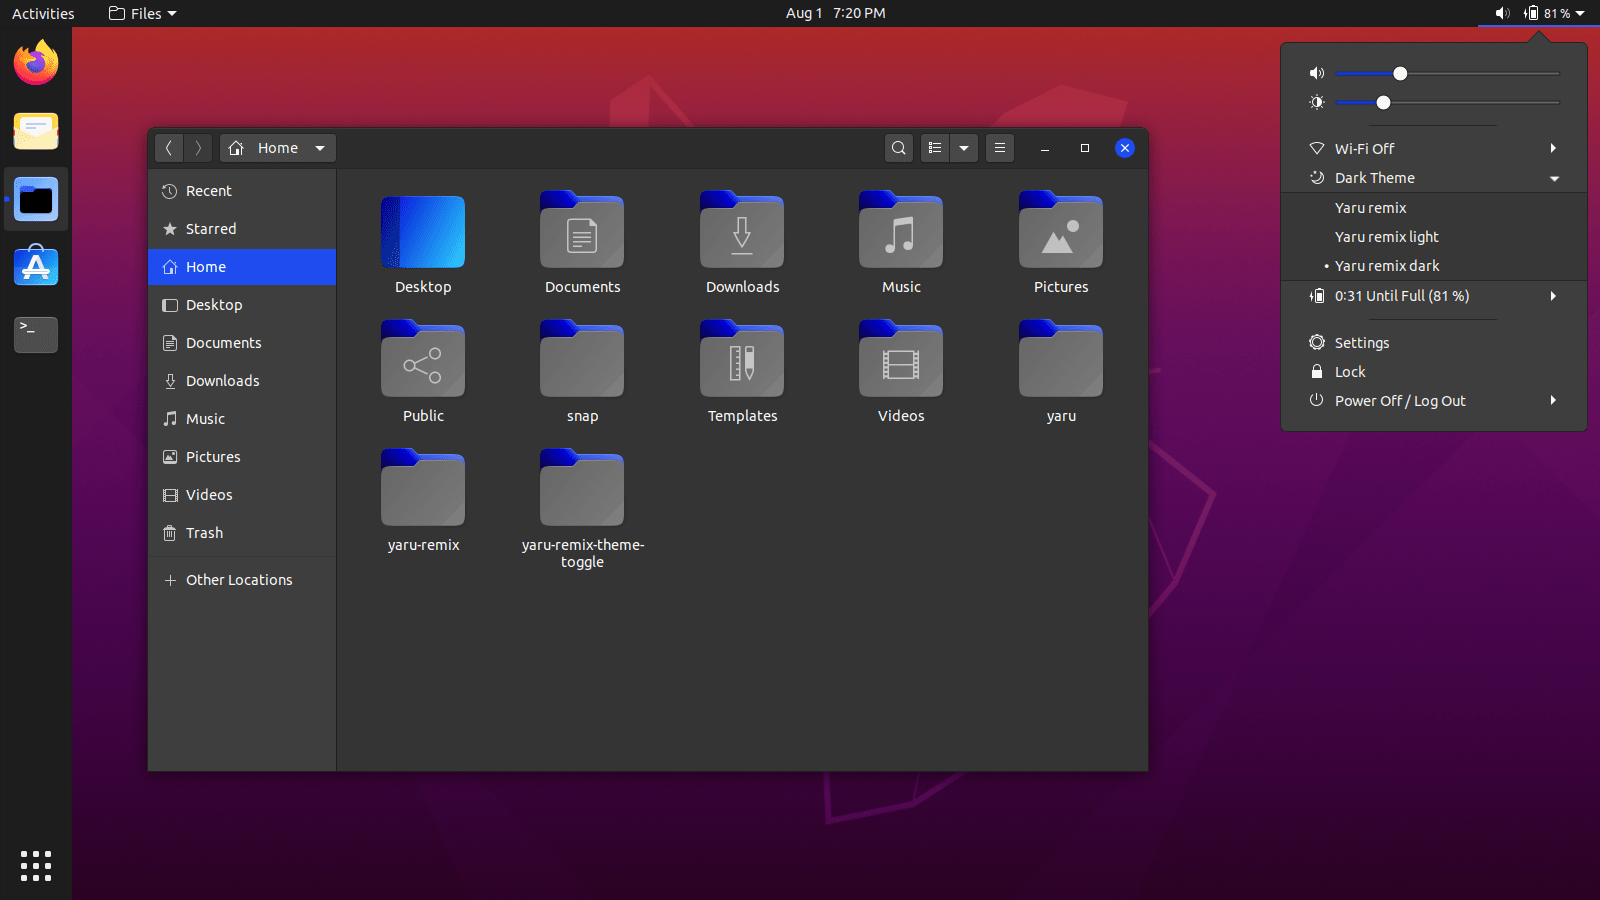
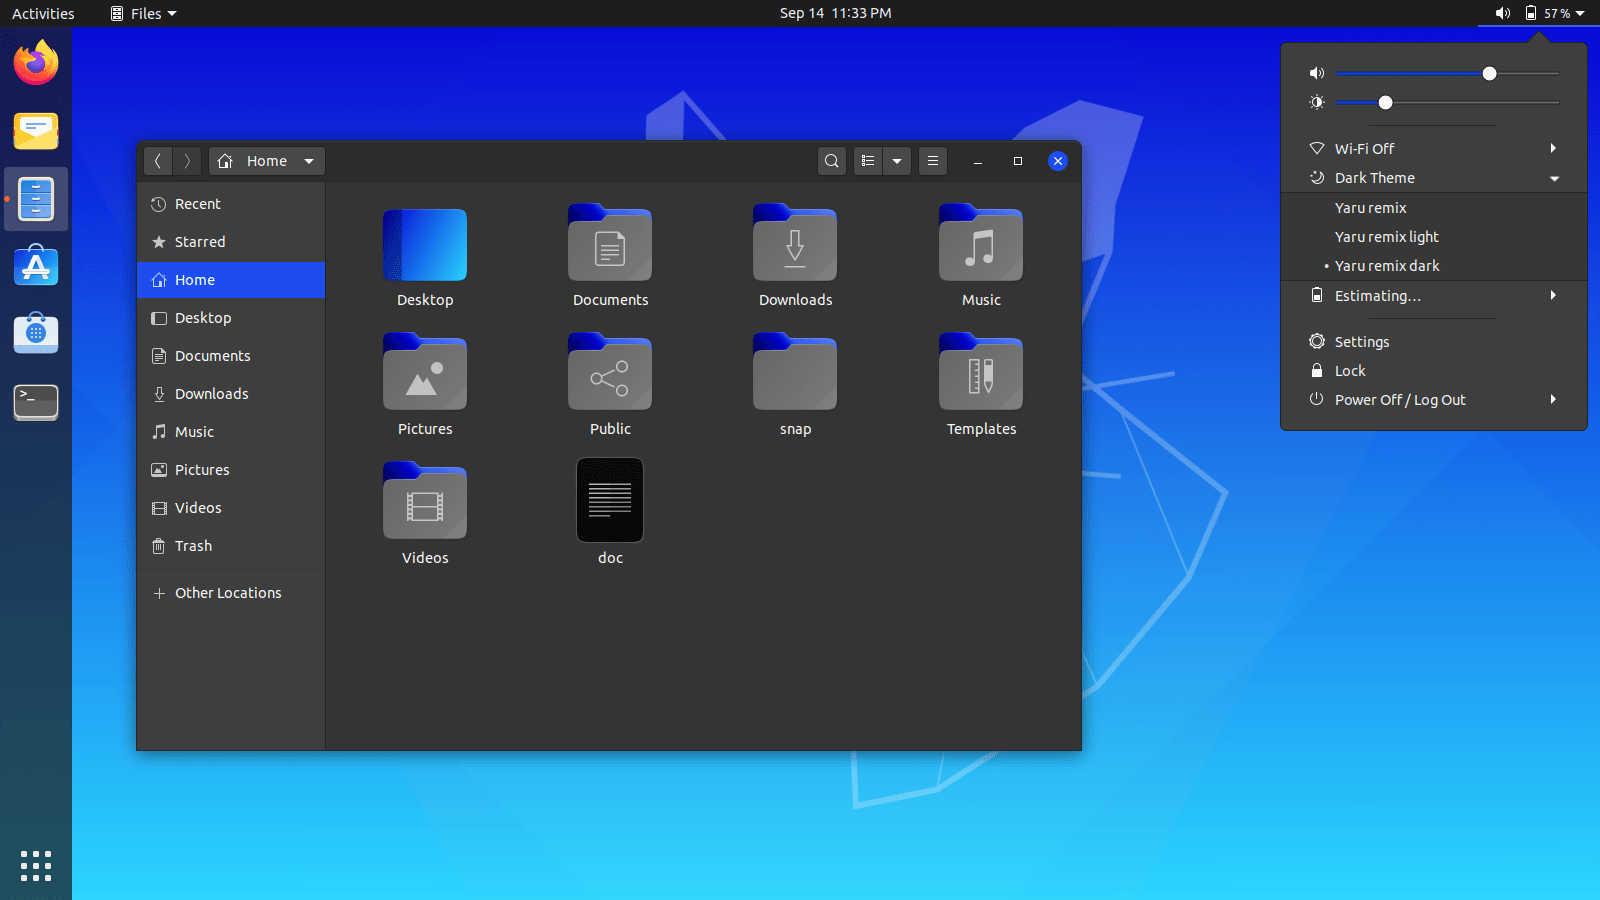
update screenshots

diff --git a/README.md b/README.md
@@ -4,10 +4,10 @@ Yaru-remix is a fork of [Yaru](https://github.com/ubuntu/yaru) theme.
 
 Yaru-remix includes:
 - GTK3 theme
-- gnome-Shell theme
+- Gnome-Shell theme
 - Yaru-remix icons
-
-- To easily switch between the themes use [yaru-remix-theme-toggle](https://github.com/Muqtxdir/yaru-remix-theme-toggle) extension
+- Yaru-remix wallpaper
+- [Yaru-remix-theme-toggle](https://github.com/Muqtxdir/yaru-remix-theme-toggle) extension
  
 *Note: Yaru-remix theme does not work with Snap and Flatpak apps*
 
